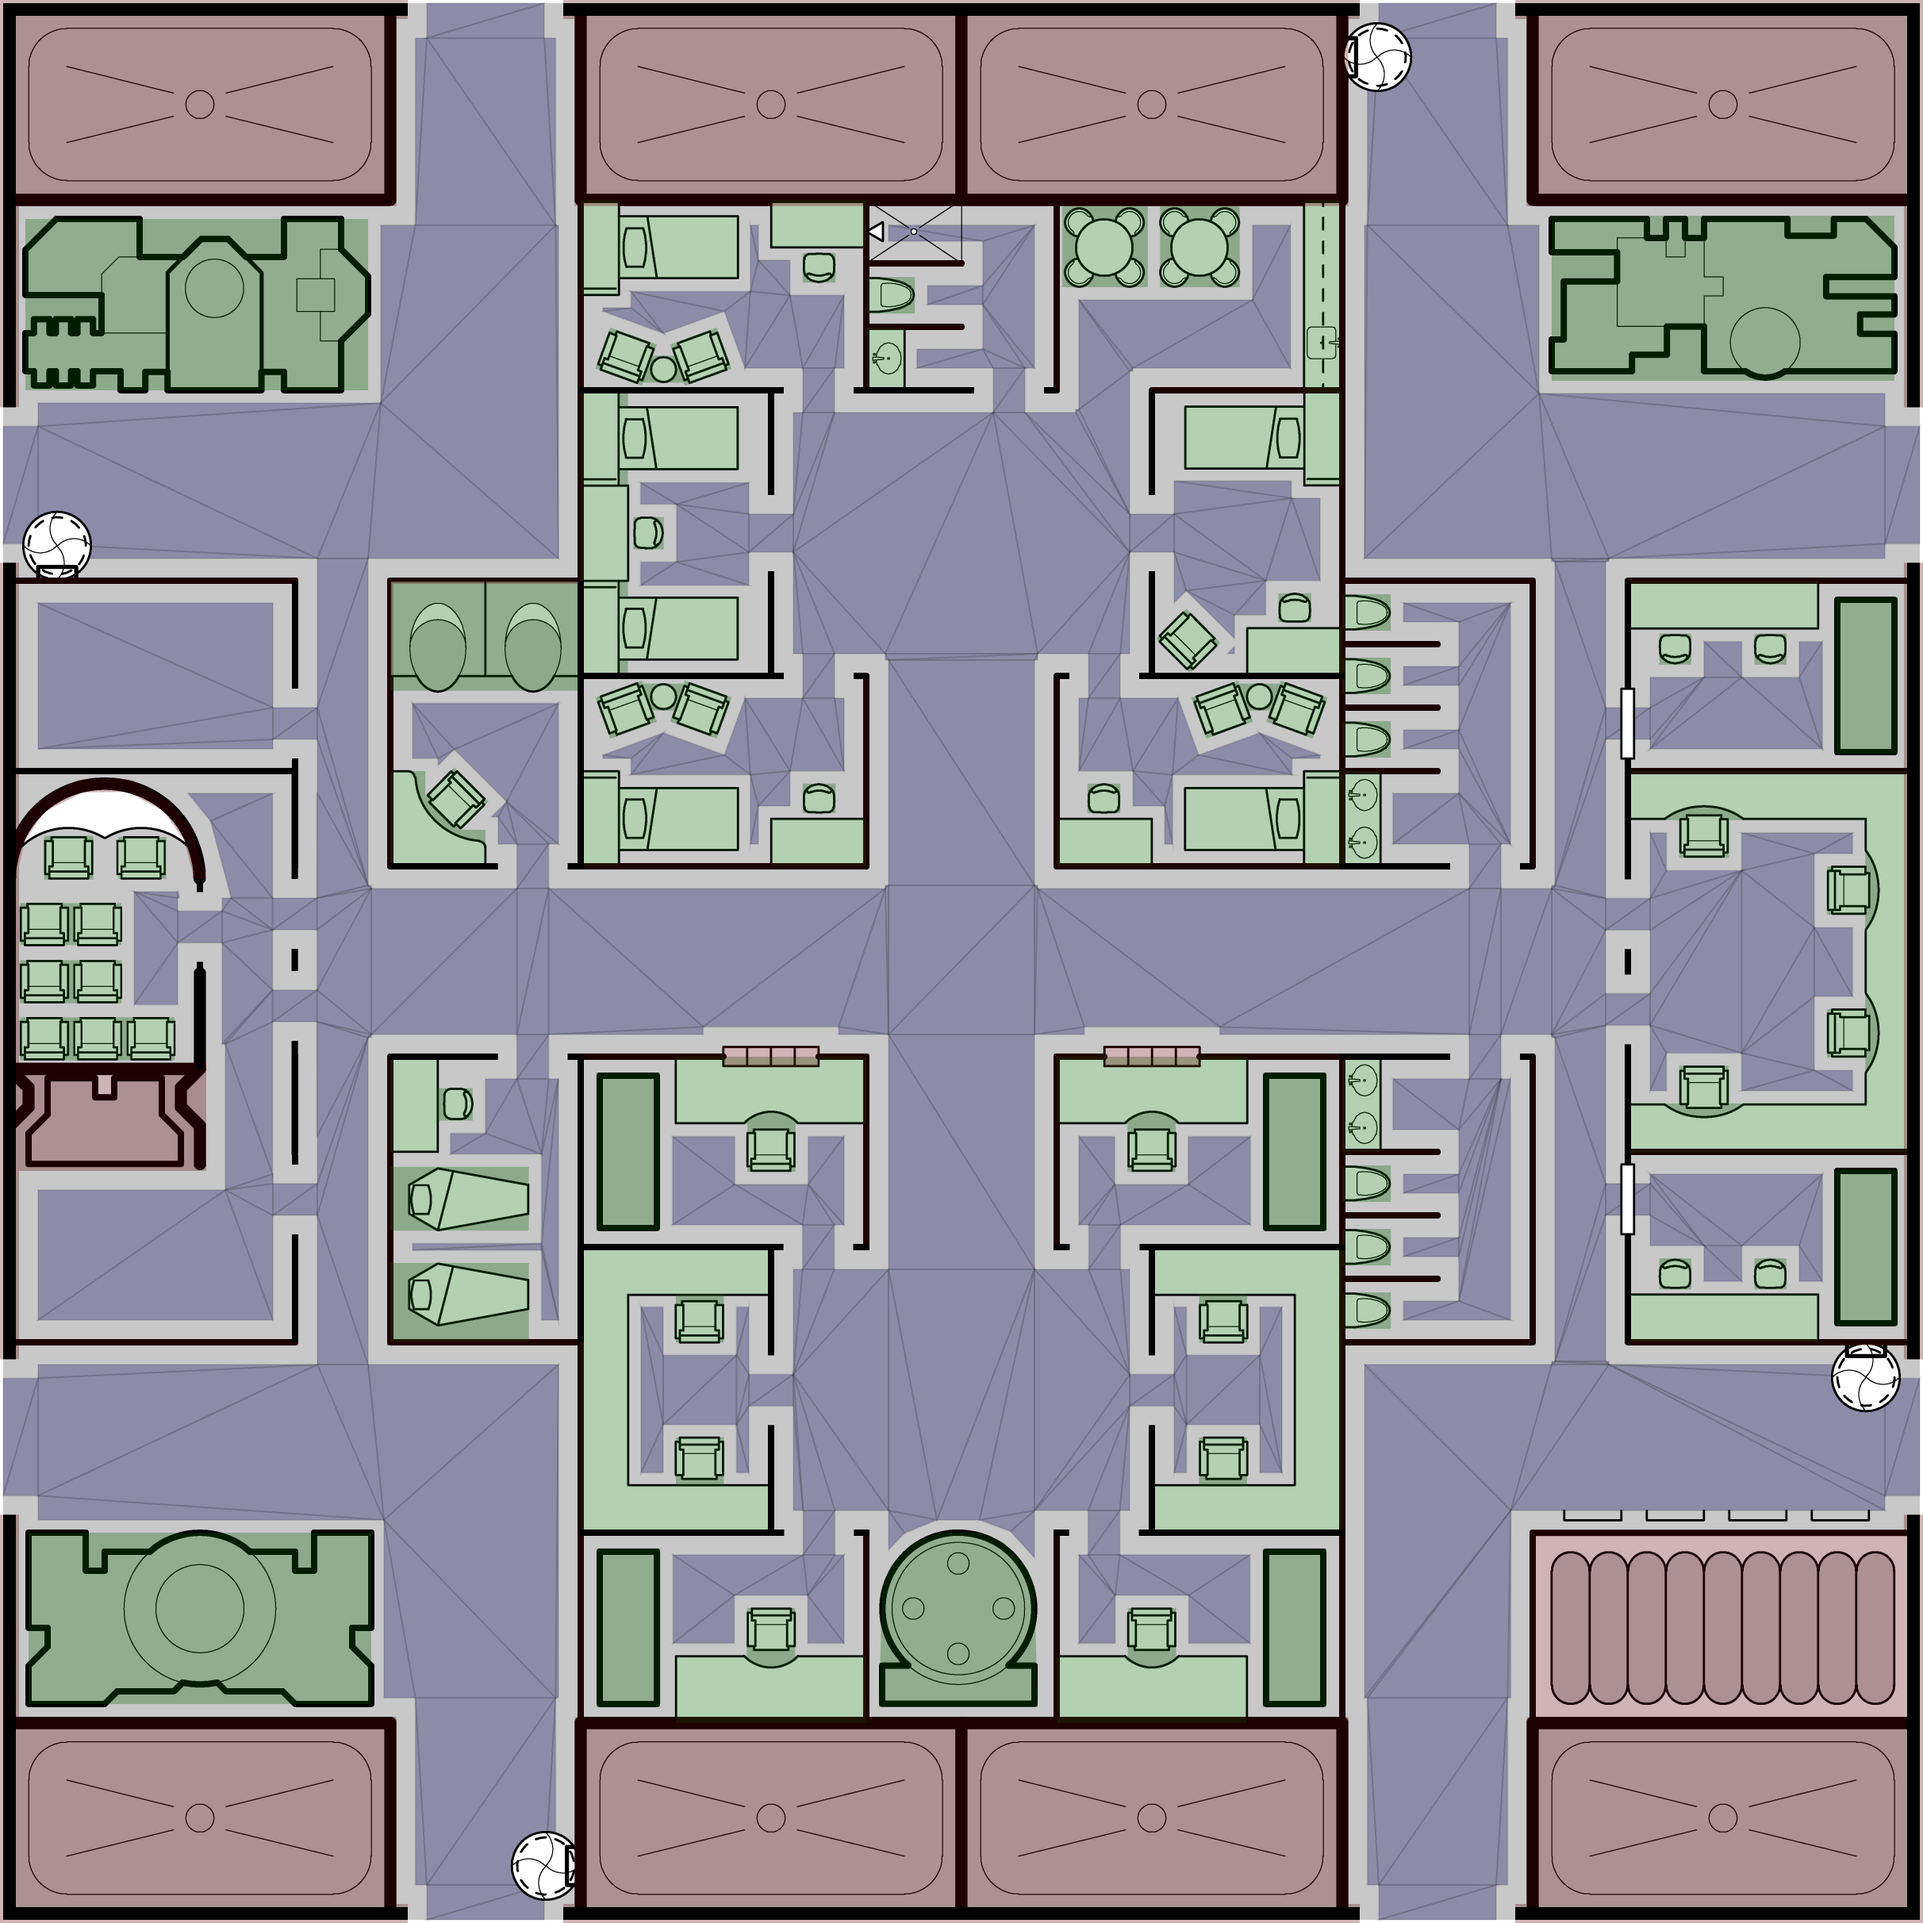
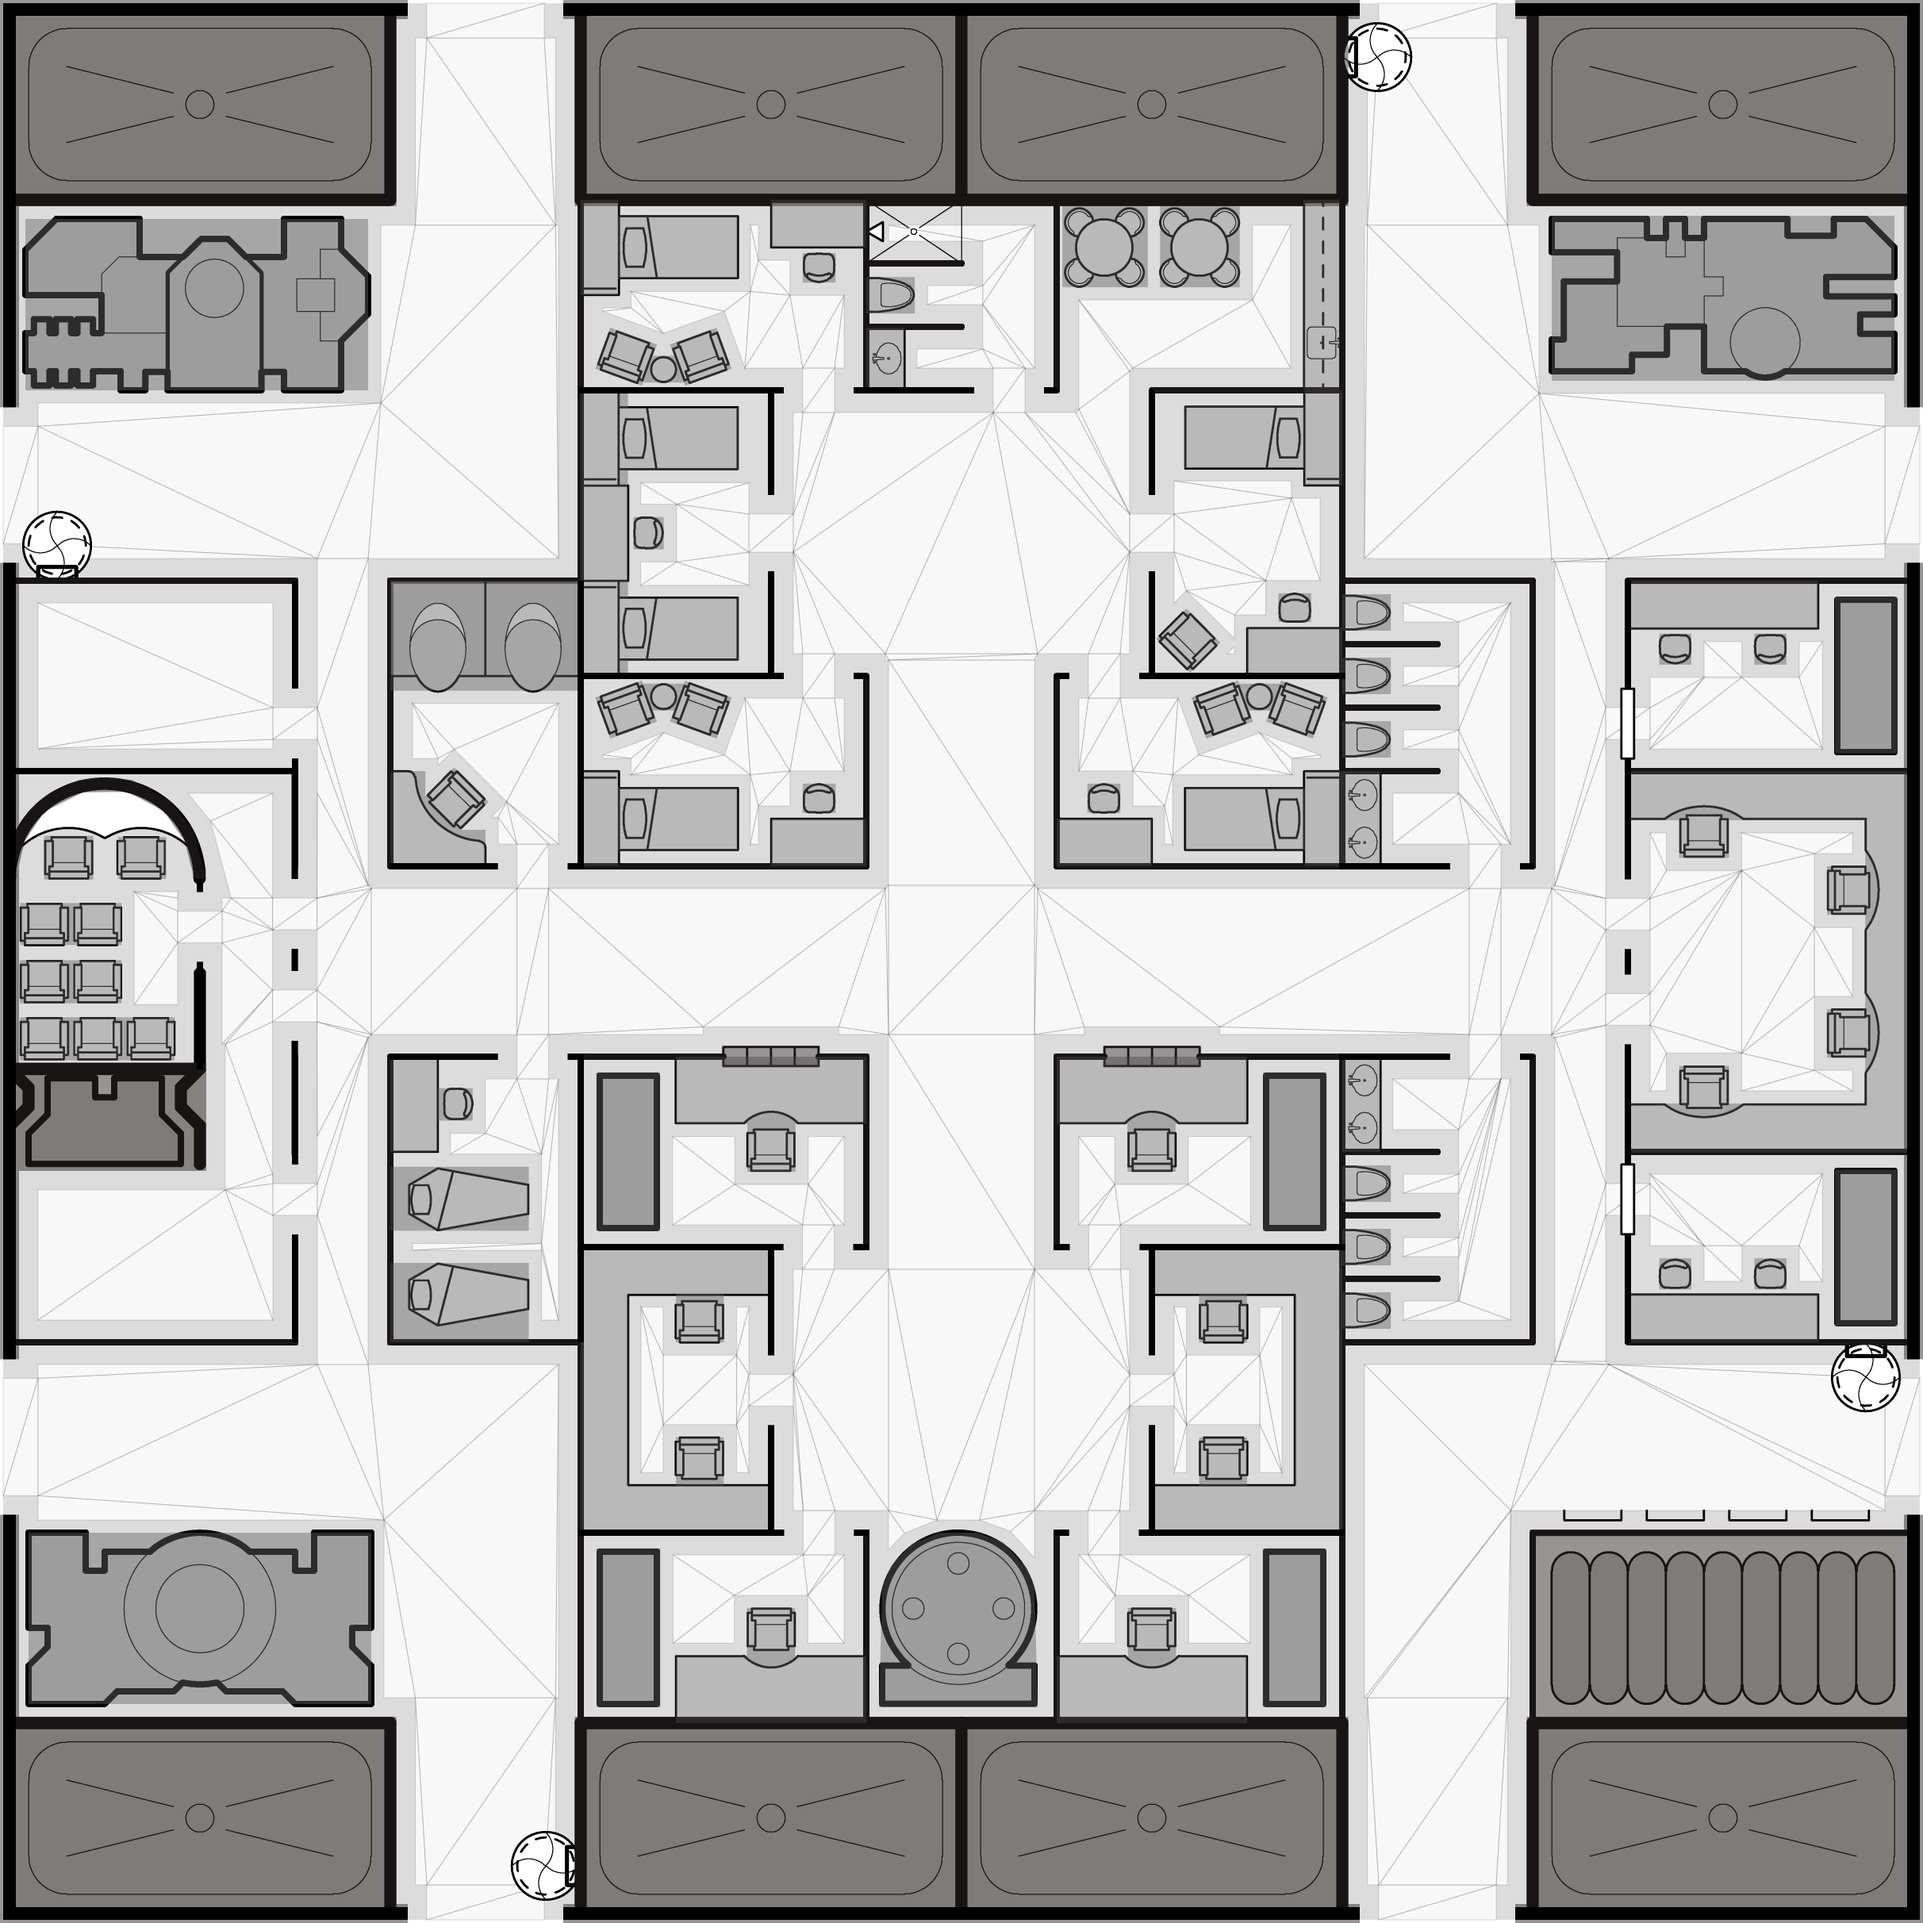
grey 3d style

diff --git a/projects/example/Css3d.jsx b/projects/example/Css3d.jsx
@@ -17,7 +17,7 @@ export default function Css3d(props) {
   });
 
   return (
-    <PanZoom gridBounds={gridBounds} initViewBox={initViewBox} maxZoom={6} wheelDelta={0.0006}>
+    <PanZoom gridBounds={gridBounds} initViewBox={initViewBox} maxZoom={6}>
       {data && <>
         <image {...data.pngRect} href={`/geomorph/${props.layoutKey}.png`} />
         <ForeignObject gm={data} />
@@ -94,10 +94,10 @@ const tempPoint = Vect.zero;
 const wallHeight = 150;
 const obstacleHeight = 75;
 const color = {
-  obstacleTop: '#070',
-  obstacleSide: '#494',
-  wallTop: '#600',
-  wallSide: '#822',
+  obstacleTop: '#666',
+  obstacleSide: '#444',
+  wallTop: '#222',
+  wallSide: '#000',
   door: '#444',
 };
 
@@ -177,6 +177,10 @@ function useDataUrls(gm) {
   }, [gm.walls]);
 }
 
+/**
+ * TODO try another approach without MutationObserver,
+ * e.g. can provide callback to PanZoom on panzoom
+ */
 function useUpdatePerspective() {
   /** @type {React.Ref<SVGForeignObjectElement>} */
   const rootRef = useRef(null);
